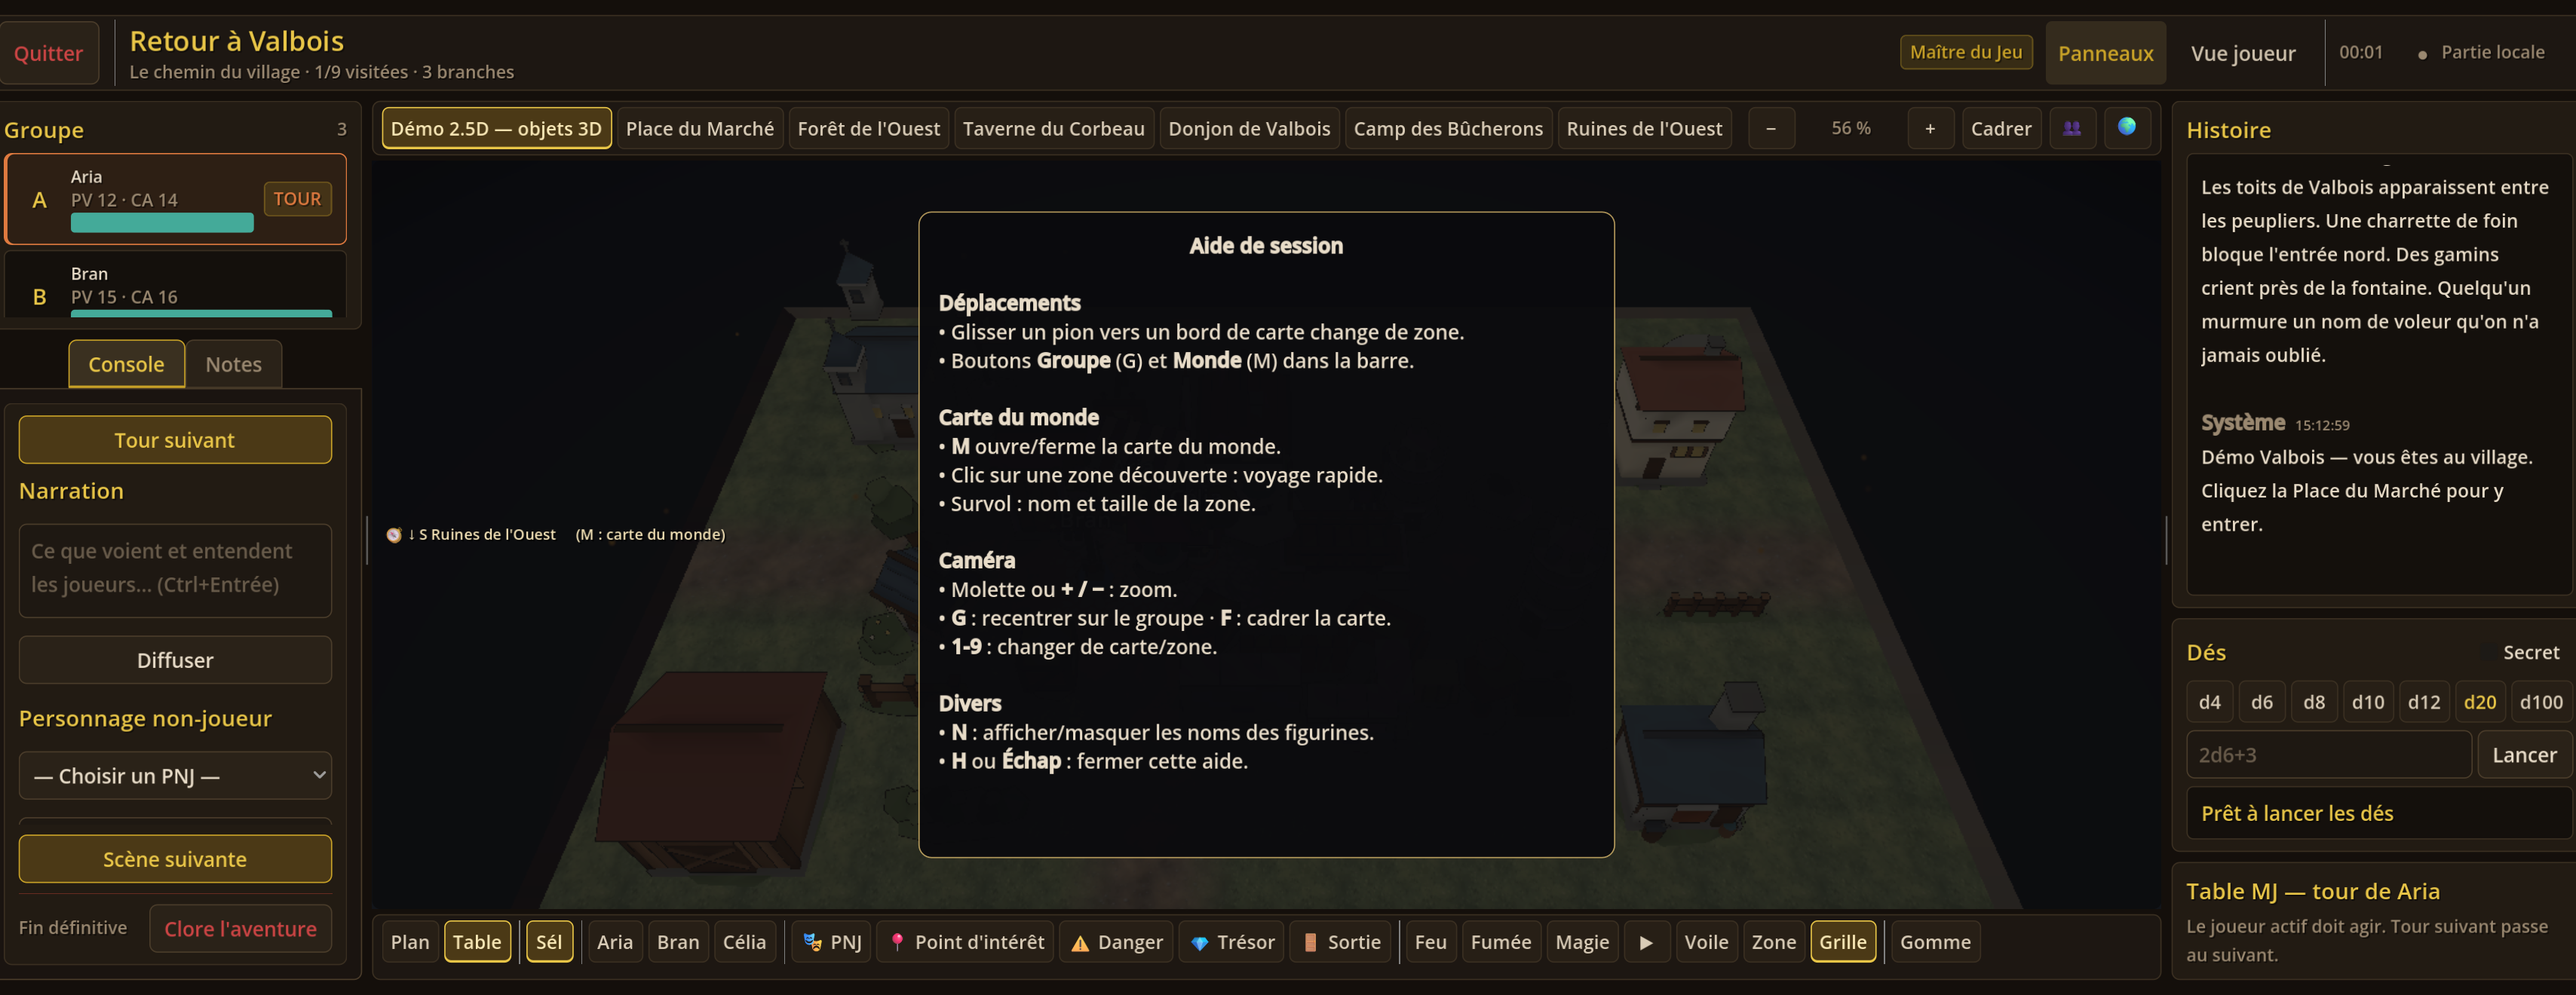
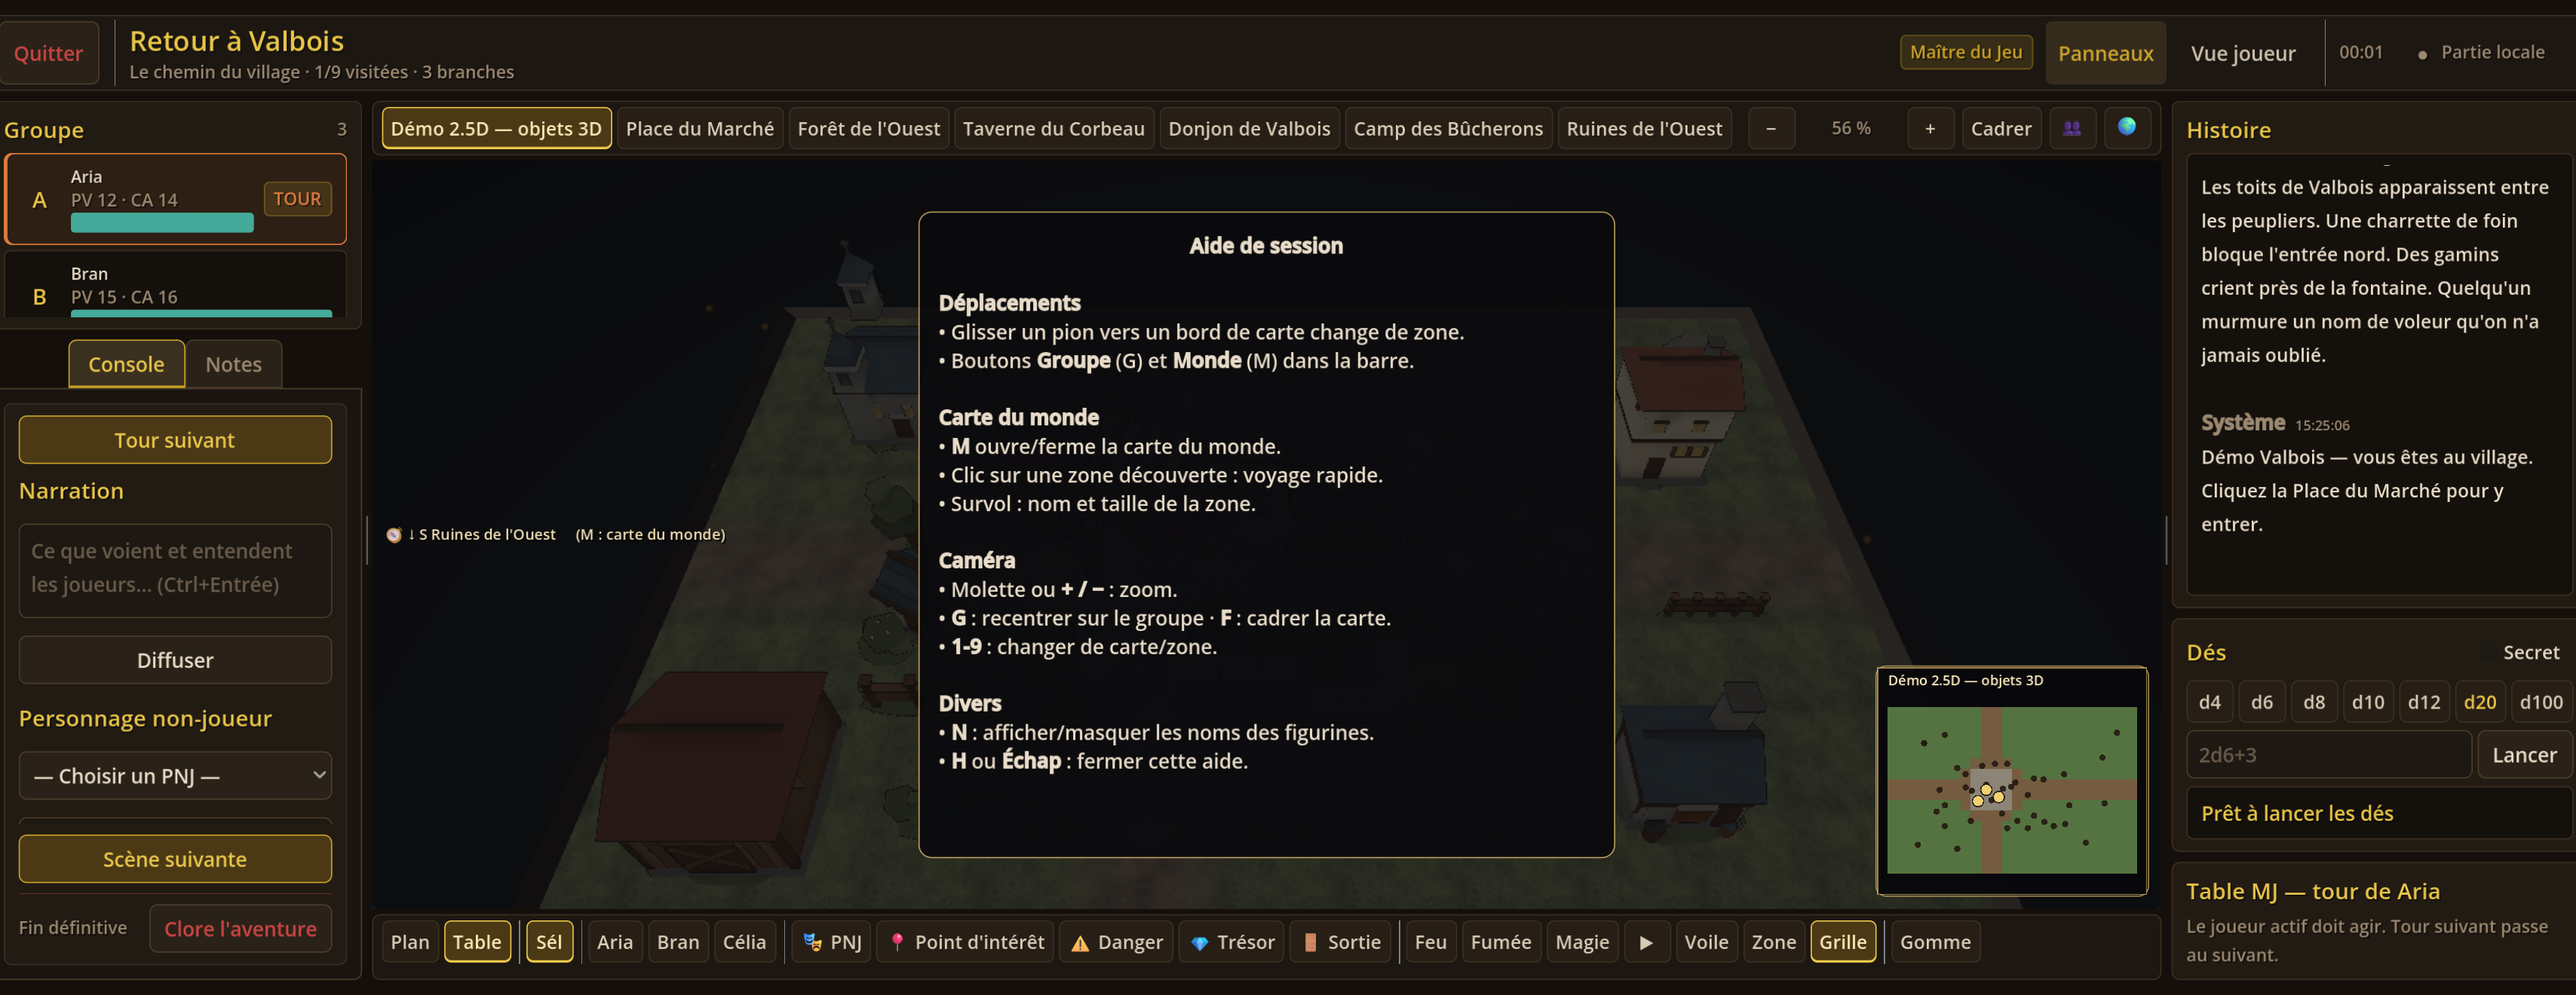
feat(session): mini-carte de zone (touche C, clic pour recentrer)

Changed region(s): [[0.7137, 0.6523, 0.8378, 0.9008]]

diff --git a/docs/GUIDE_CARTE_25D.md b/docs/GUIDE_CARTE_25D.md
@@ -83,7 +83,8 @@ palette Valbois. Voir [BLENDER_PIPELINE.md](./BLENDER_PIPELINE.md).
 - Touche **M** (ou bouton **🌍** de la barre) : carte du monde (zones découvertes,
   aperçus des sols/bâtiments, « Vous êtes ici », voyage rapide par clic).
 - **G** recentre la caméra sur le groupe (ou bouton **Groupe** dans la barre), **F** recadre toute la carte.
-- **N** affiche/masque les noms flottants ; **+ / −** zooment ; **1-9** bascule entre les cartes/onglets.
+- **N** affiche/masque les noms flottants ; **C** affiche/masque la **mini-carte** (clic = recentrer la caméra).
+- **+ / −** zooment ; **1-9** bascule entre les cartes/onglets.
 - **H** ouvre l'**aide des raccourcis** de session (Échap pour fermer).
 - Glisse un pion vers un **bord** de carte pour passer dans la zone voisine :
   fondu noir + nom de la zone.
